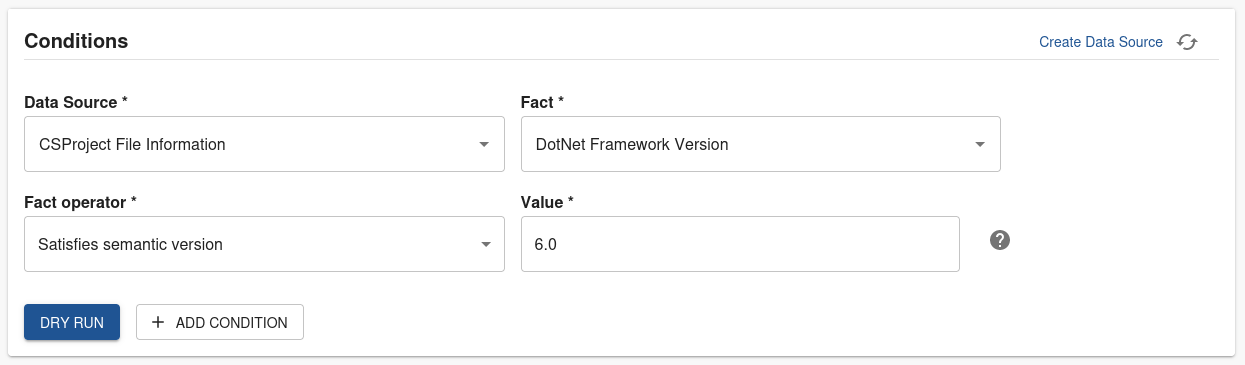
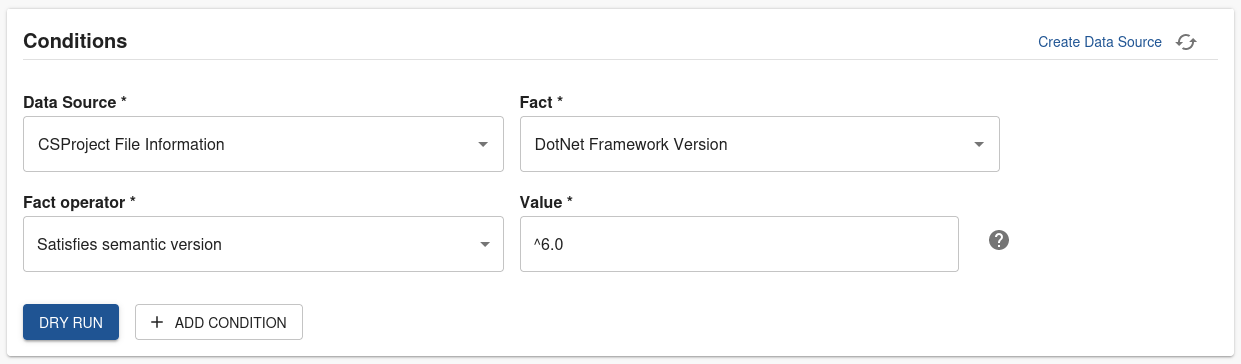
Update check condition section

diff --git a/content/docs/tech-insights/track-dependency-versions/index.md b/content/docs/tech-insights/track-dependency-versions/index.md
@@ -243,7 +243,7 @@ Let’s write a check to combine both of these properties.
         | Data Source | CSProject File Information |
         | Fact | DotNet Framework Version |
         | Fact operator | Greater than semantic version |
-        | Value | 6.0 |
+        | Value | ^6.0 |
 
     ![Check Condition section fields](./dot-net/DotNet_Check_Condition_Section.png)
 
